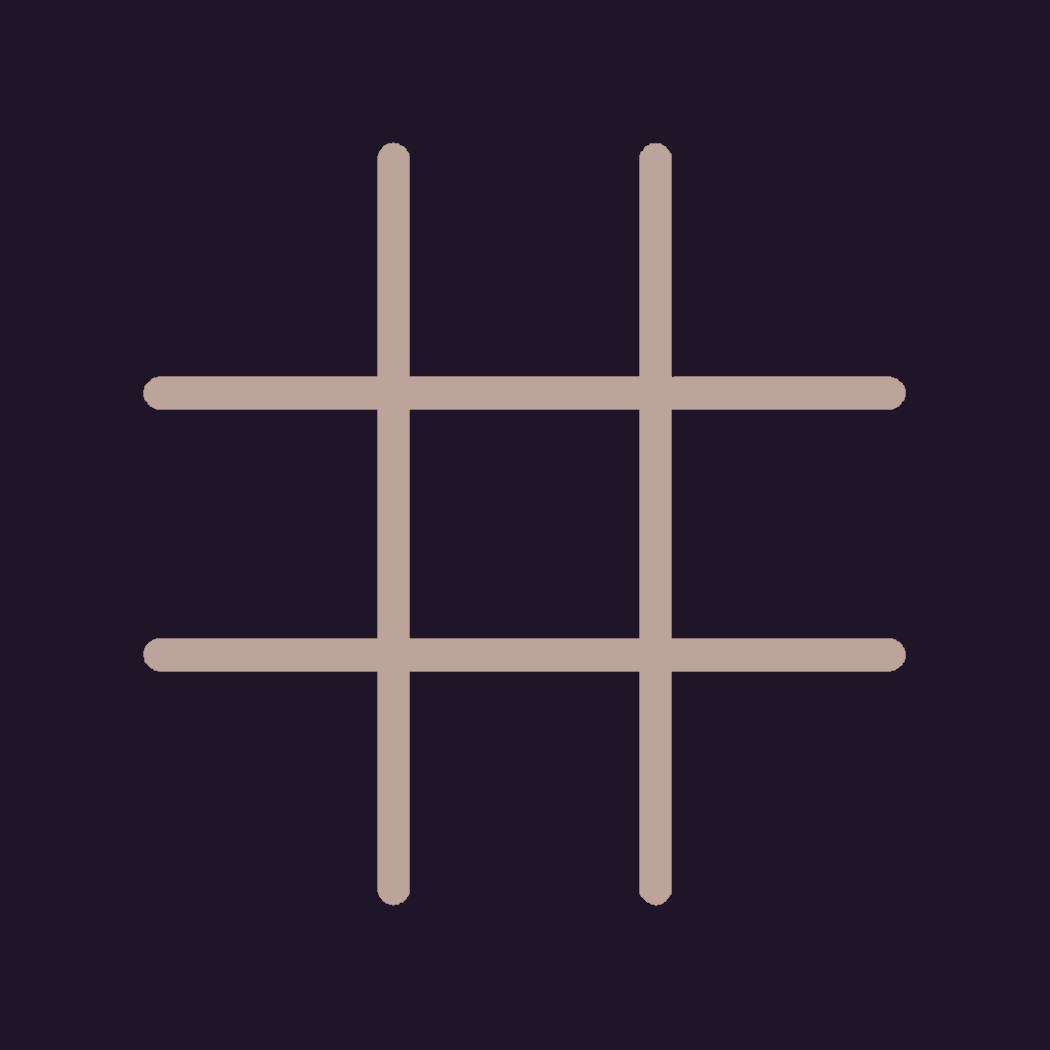
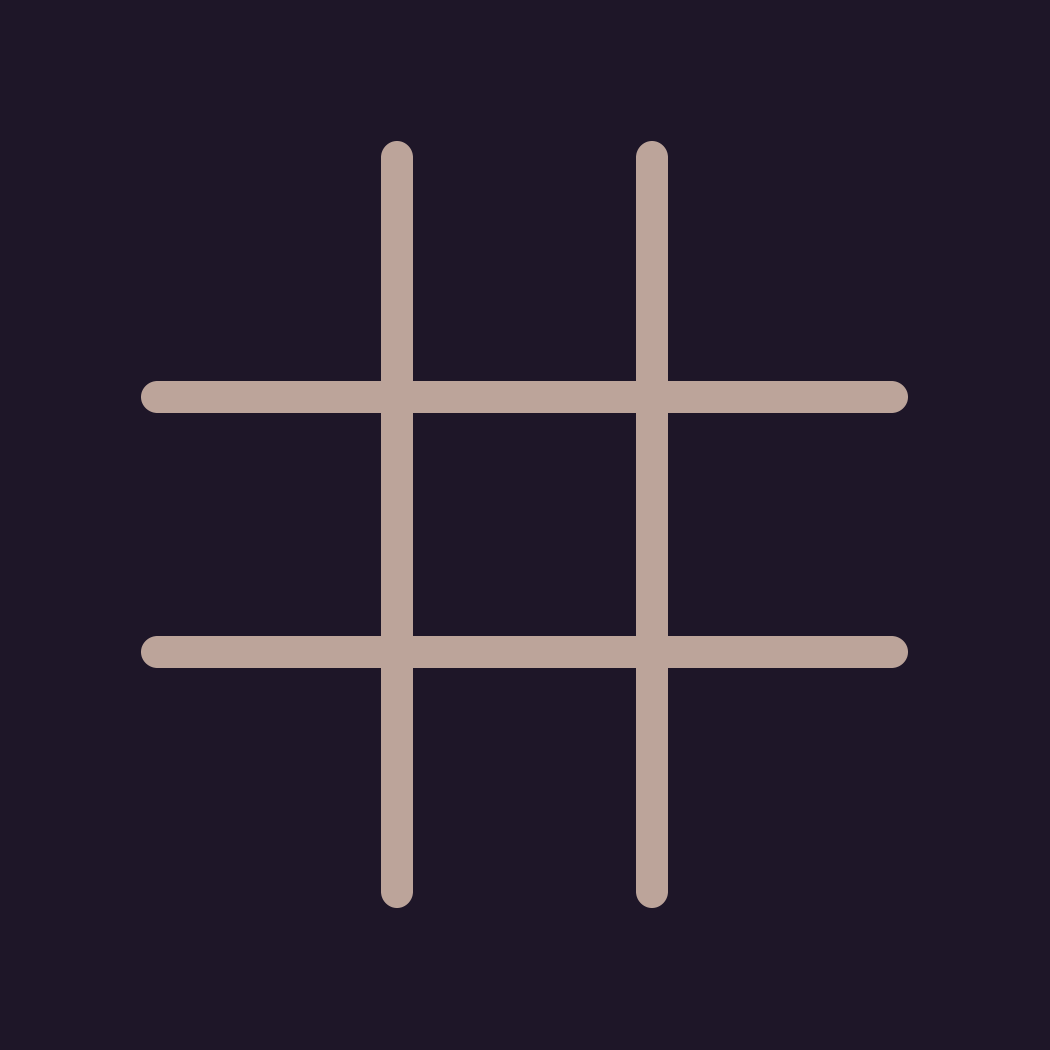
Fixed the board and almost have placing token working

Changed region(s): [[0.1219, 0.1219, 0.8838, 0.8838], [0.64, 0.6095, 0.8533, 0.64]]

diff --git a/tripleT.py b/tripleT.py
@@ -10,7 +10,7 @@ def clamp(n, smallest, largest):
   return max(smallest, min(n, largest))
 
 
-class IgnoreCoordinate(Exception):
+class FaultyCoordinate(Exception):
   pass
 
 
@@ -57,47 +57,63 @@ class Game():
     pygame.init()
     self.exit = False
     self.background = pygame.image.load('board.png')
-    self.spaceSize = 230
+    self.xToken = pygame.image.load('x.png')
+    self.oToken = pygame.image.load('o.png')
+
+    self.spaceSize = 260
     self.width = 1050
     self.height = self.width
     self.xOrO = 'x'
     #horizontally counted
     self.spacesTopLeft = {
-        1: (143, 143),
-        2: (409, 143),
-        3: (671, 143),
-        4: (143, 409),
-        7: (143, 671),
-        5: (409, 409),
-        6: (671, 409),
-        8: (409, 671),
-        9: (671, 671)
+        (1, 1): (141, 141),
+        (1, 2): (409, 143),
+        (1, 3): (671, 143),
+        (2, 1): (143, 409),
+        (2, 2): (143, 671),
+        (2, 3): (409, 409),
+        (3, 1): (671, 409),
+        (3, 2): (409, 671),
+        (3, 3): (671, 671)
     }
+    self.occupations = {
+        (1, 1): False,
+        (1, 2): False,
+        (1, 3): False,
+        (2, 1): False,
+        (2, 2): False,
+        (2, 3): False,
+        (3, 1): False,
+        (3, 2): False,
+        (3, 3): False,
+    }
+
     self.gameDisplay = pygame.display.set_mode((self.width, self.height))
     pygame.display.set_caption("τtT")
     self.clock = pygame.time.Clock()
 
-  def CoordsToCell(self, pos):
+  def CoordsToSpace(self, pos):
 
-    #x = math.floor(pos[0] / self.spaceSize)
-    #y = math.floor(pos[1] / self.spaceSize)
-    #if x != clamp(x, 0, 3):
-    #  raise IgnoreCoordinate('nah')
-    #if y != clamp(y, 0, 3):
-    #  raise IgnoreCoordinate('nope')
-    #print(x, y)
-    #return (x, y)
-    for k, v in self.spacesTopLeft.items():
-      if self.spacesTopLeft[k][0] <= pos[0] <= self.spacesTopLeft[k + 1][0] and self.spacesTopLeft[k][1] <= pos[1] <= self.spacesTopLeft[k + 1][1]:
-        print(k)
-        return k
+    x = clamp(math.floor((pos[0] + 141) / self.spaceSize), 1, 3)
+    y = clamp(math.floor((pos[1] + 141) / self.spaceSize), 1, 3)
+    return (x, y)
+
+  def placeSymbol(self, space):
+    '''
+    places x or o in the designated space
+    '''
+    #add turn logic here
+    self.gameDisplay.blit(self.xToken, (self.spacesTopLeft[space]))
+    space = True
 
   def handleEvents(self):
     for event in pygame.event.get():
       if event.type == pygame.QUIT:
         self.exit = True
       if event.type == pygame.MOUSEBUTTONDOWN:
-        self.x, self.y = self.CoordsToCell(event.pos)
+        self.x, self.y = self.CoordsToSpace(event.pos)
+        if self.occupations[(self.x, self.y)] == False:
+          self.placeSymbol((self.x, self.y))
 
   def updateGame(self):
     pass
